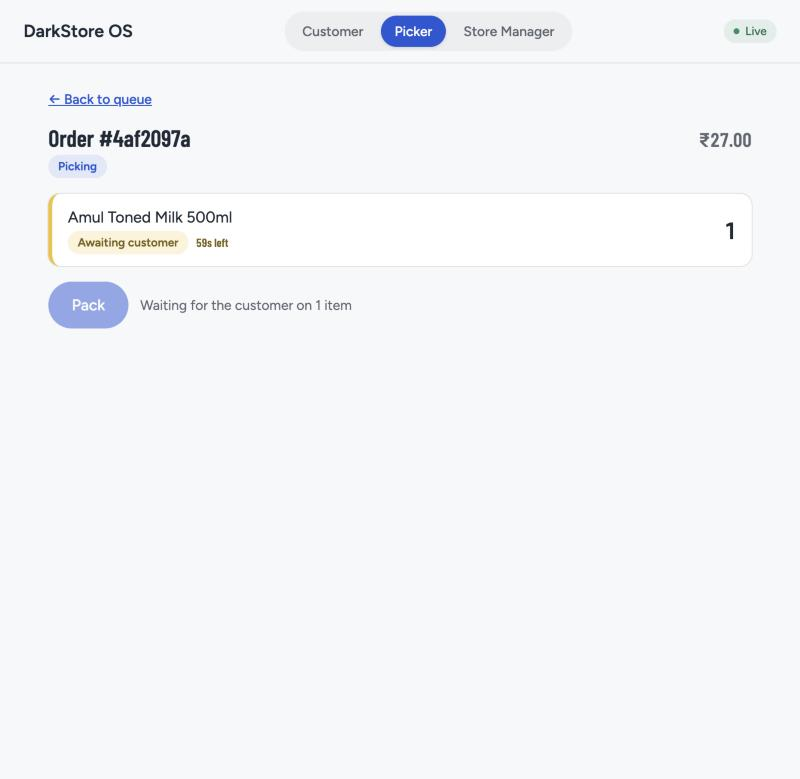
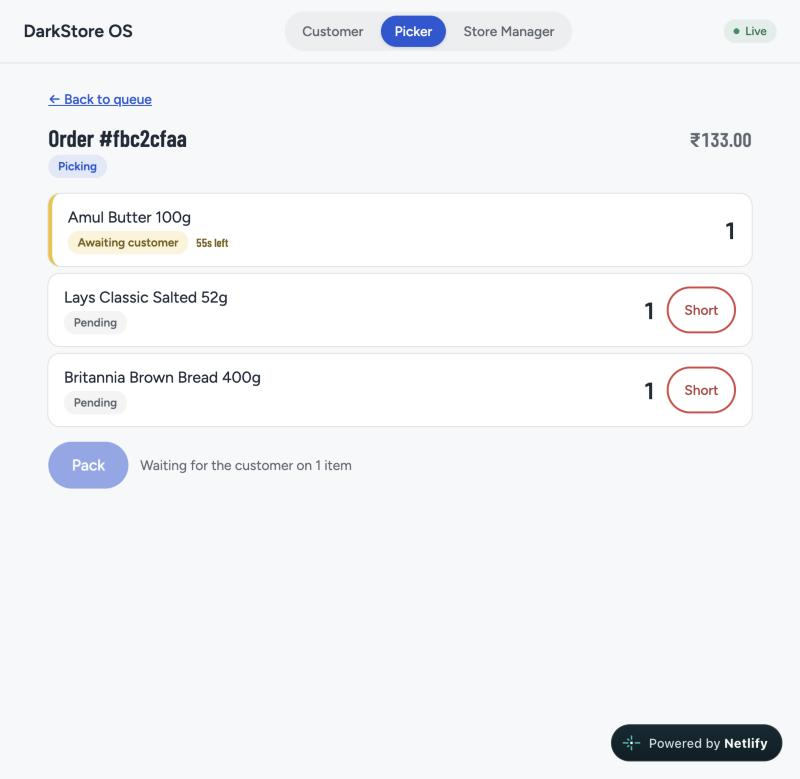
Retake shop/picker screenshots with a fuller 3-item order
Shows Amul Butter awaiting substitution alongside two pending items
(bread, chips), and the picker's matching disabled-Pack state. Alt text
updated to match the one real candidate the new subcategory-only
matching actually offers.

diff --git a/README.md b/README.md
@@ -11,7 +11,7 @@ tier, so the first load can take up to a minute to wake up.
 
 | Shop — the substitution dialog (styled as a bottom sheet) | Picker — Pack blocked on a pending decision | Ops — a live "awaiting substitution" row |
 |:---:|:---:|:---:|
-| ![Customer order tracker with the substitution dialog open, naming the out-of-stock item, with a live countdown and two replacement options each showing their price difference from the original](docs/screenshots/shop-substitution.jpg) | ![Picker order detail with one item awaiting the customer, highlighted with a yellow left edge and a live countdown; the Pack button is disabled with a "Waiting for the customer on 1 item" hint](docs/screenshots/picker.jpg) | ![Store Manager ops table with a live count on the Awaiting substitution filter chip and a yellow-edged row for the order currently awaiting a decision](docs/screenshots/ops.jpg) |
+| ![Customer order tracker with the substitution dialog open, naming the out-of-stock item, with a live countdown and its one same-subcategory replacement option showing its price difference from the original](docs/screenshots/shop-substitution.jpg) | ![Picker order detail with one item awaiting the customer, highlighted with a yellow left edge and a live countdown; the Pack button is disabled with a "Waiting for the customer on 1 item" hint](docs/screenshots/picker.jpg) | ![Store Manager ops table with a live count on the Awaiting substitution filter chip and a yellow-edged row for the order currently awaiting a decision](docs/screenshots/ops.jpg) |
 
 **What's technically interesting here:**
 
